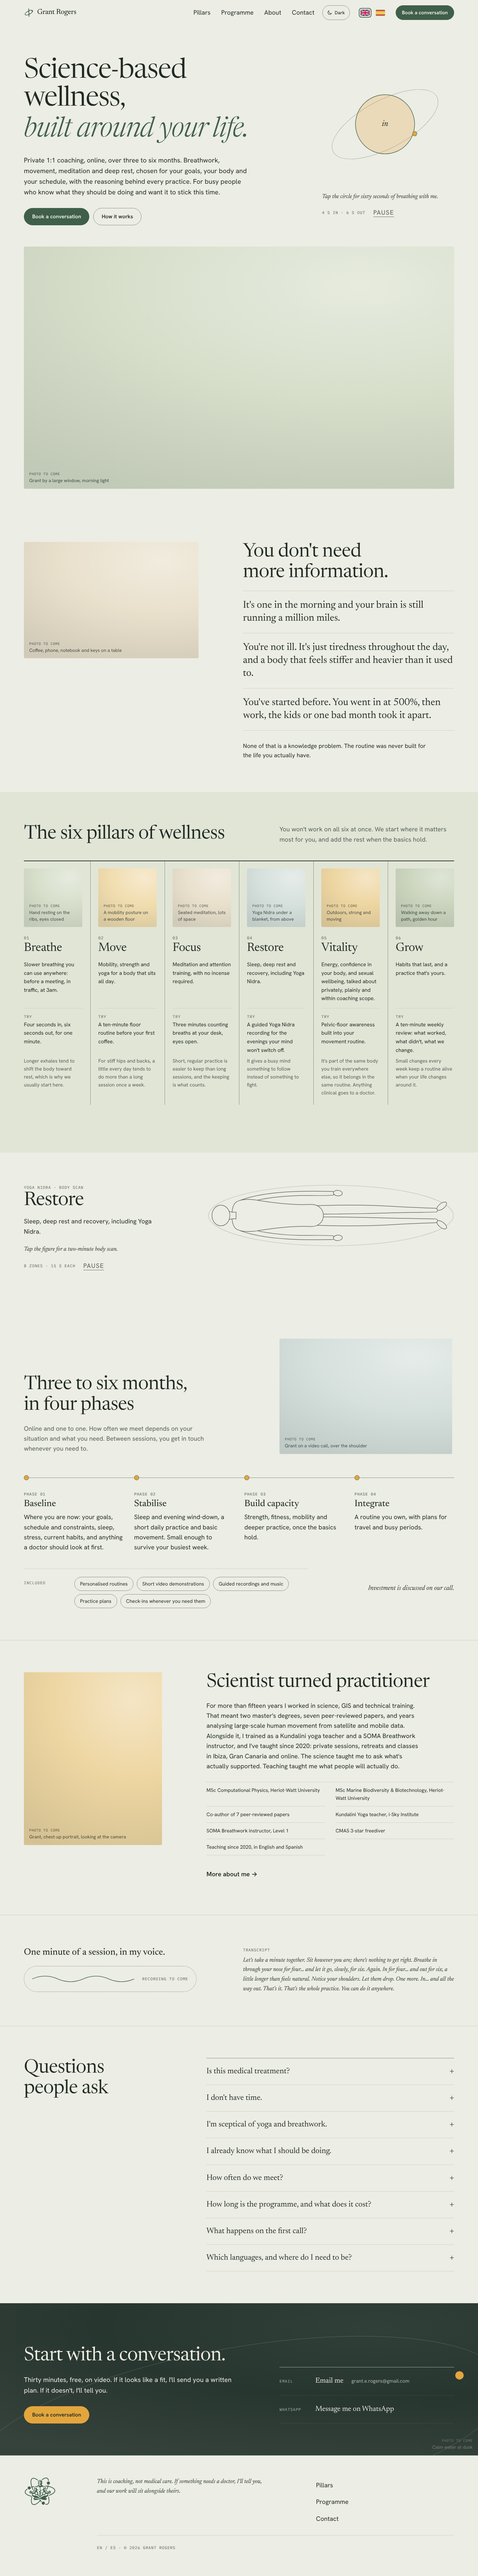
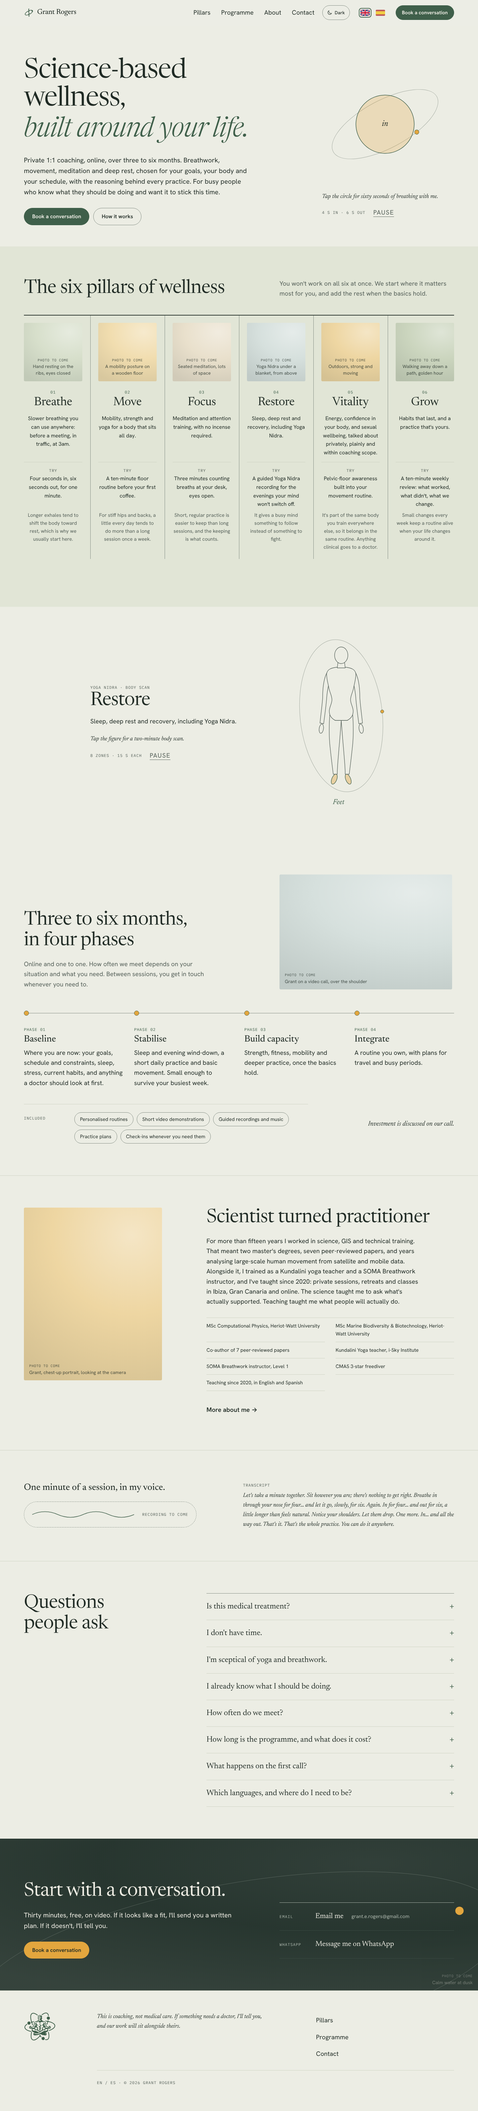
Homepage revisions, round 2 of Grant's review
Removed the 'You don't need more information' section and the large photo
under the hero. Pillar text centred in each column. Switching language now
keeps your place on the page. Body scan redrawn small, like the breath
pacer: an anatomically proportioned figure lying down, seen from above,
inside an orbit with a drifting dot; zones glow warmly with the breath
(5.1, 5.2, 5.4, 12.2, 9.13).

Claude-Session: https://claude.ai/code/session_0174wx8goH1TGMPMSPKuTNat

diff --git a/src/styles/components.css b/src/styles/components.css
@@ -141,6 +141,7 @@
     padding: 0 0 var(--s3); position: relative; }
   .pillar::before { content: ""; position: absolute; left: calc(var(--s6) / -2); top: 0; bottom: 0; width: 1px; background: var(--rule-strong); }
   .pillar:first-child::before, .pillar.row-start::before { display: none; }
+  .pillar { text-align: center; }
   .pillar-media { margin-bottom: var(--s3); }
   .pillar-n { color: var(--accent); margin: 0 0 4px; align-self: end; }
   .pillar-name { font-family: var(--serif); font-weight: 400; font-size: clamp(1.75rem, 1.4rem + 1vw, 2.25rem); line-height: 1.05; margin: 0 0 var(--s2); letter-spacing: -.01em; hyphens: auto; overflow-wrap: anywhere; }
@@ -292,22 +293,28 @@
 }
 
 @layer components {
-  /* Mini Yoga Nidra body scan (9.13): same thin line style as the pacer */
+  /* Mini Yoga Nidra body scan (9.13): small, like the pacer */
+  .scan-wrap { display: grid; gap: var(--s6); justify-items: center; text-align: center; }
   .scan-text .h2 { margin-bottom: var(--s2); }
-  .scan-text p { margin: 0; max-width: 28em; }
+  .scan-text p { margin: 0 auto; max-width: 28em; }
   .scan-hint { margin-top: var(--s3) !important; font-family: var(--serif); font-style: italic; font-size: 1.125rem; }
-  .scan-meta { display: flex; flex-wrap: wrap; align-items: center; gap: 0 var(--s3); color: var(--muted); margin-top: var(--s1) !important; }
-  .scan-figure { margin-top: var(--s6); }
-  .scan-btn { display: block; width: 100%; background: none; border: 0; padding: 0; cursor: pointer; color: var(--ink); border-radius: 12px; }
+  .scan-meta { display: flex; flex-wrap: wrap; align-items: center; justify-content: center; gap: 0 var(--s3); color: var(--muted); margin-top: var(--s1) !important; }
+  .scan-figure { margin: 0; width: min(240px, 62vw); }
+  .scan-btn { display: block; width: 100%; background: none; border: 0; padding: 0; cursor: pointer; color: var(--ink); border-radius: 50%; }
   .scan-btn svg { width: 100%; height: auto; overflow: visible; }
-  .scan-zone-label { margin: var(--s2) 0 0; display: flex; align-items: baseline; gap: var(--s2); min-height: 2.2em; }
-  .scan-zone-label [data-scan-name] { font-family: var(--serif); font-style: italic; font-size: 1.5rem; color: var(--accent); }
+  .scan-zone-label { margin: var(--s2) 0 0; display: flex; justify-content: center; align-items: baseline; gap: var(--s2); min-height: 2.2em; }
+  .scan-zone-label [data-scan-name] { font-family: var(--serif); font-style: italic; font-size: 1.375rem; color: var(--accent); }
   .scan-zone-label [data-scan-count] { color: var(--muted); }
+  .scan-electron { fill: var(--warm); stroke: var(--accent); stroke-width: 1; }
+  @media (min-width: 1024px) {
+    .scan-wrap { grid-template-columns: minmax(0, 1fr) 280px; max-width: 960px; justify-items: start; text-align: left; align-items: center; column-gap: var(--s12); }
+    .scan-text p { margin-left: 0; } .scan-meta { justify-content: flex-start; }
+    .scan-figure { width: 280px; }
+  }
   .bz .shape, .shape { fill: var(--bg); stroke: var(--muted); stroke-width: 1.4; stroke-linejoin: round; transition: fill .9s var(--ease), stroke .9s var(--ease); }
+  /* on/off fades; the breath pulse uses fill-opacity, which isn't transitioned, so the two don't fight */
   .bz .area { fill: var(--warm); opacity: 0; transition: opacity .9s var(--ease); }
-  .bz.on .shape { stroke: var(--accent); fill: color-mix(in srgb, var(--warm) calc(55% + 35% * var(--b, .5)), var(--bg)); }
-  .bz.on .area { opacity: calc(.6 + .35 * var(--b, .5)); }
-  .torso, .neck { fill: var(--bg); }
-  .scan-orbit { fill: none; stroke: var(--rule-strong); stroke-width: 1; opacity: .5; }
-  @media (min-width: 1024px) { .scan-text { grid-column: 1 / 5; align-self: center; } .scan-figure { grid-column: 6 / -1; margin: 0; } }
+  .bz.on .shape { stroke: var(--accent); fill: var(--warm); fill-opacity: calc(.4 + .45 * var(--b, .5)); }
+  .bz.on .area { opacity: 1; fill-opacity: calc(.5 + .45 * var(--b, .5)); }
+  .scan-orbit { fill: none; stroke: var(--rule-strong); stroke-width: 1; opacity: .7; }
 }

diff --git a/src/scripts/site.ts b/src/scripts/site.ts
@@ -47,3 +47,28 @@ if (bar && hero && fin) {
   new IntersectionObserver(([e]) => { pastHero = !e.isIntersecting && e.boundingClientRect.top < 0; upd(); }).observe(hero);
   new IntersectionObserver(([e]) => { atEnd = e.isIntersecting; upd(); }).observe(fin);
 }
+
+// Switching language keeps your place (12.2): remember which section is at the top of the screen and how far into it
+// you are, then restore that position on the other language's page (the text lengths differ, so pixels alone won't do).
+const KEY = 'lang-pos';
+document.querySelectorAll<HTMLAnchorElement>('.flags a, .foot-meta a[hreflang], .foot-meta a[lang]').forEach((a) => {
+  a.addEventListener('click', () => {
+    const secs = [...document.querySelectorAll<HTMLElement>('main > section[id]')]; // same ids in every language
+    const here = secs.filter((s) => s.getBoundingClientRect().top <= 80).pop();
+    const pos = here
+      ? { id: here.id, f: (80 - here.getBoundingClientRect().top) / Math.max(1, here.offsetHeight) }
+      : { id: '', f: scrollY / Math.max(1, document.documentElement.scrollHeight - innerHeight) };
+    try { sessionStorage.setItem(KEY, JSON.stringify(pos)); } catch { /* ignore */ }
+  });
+});
+try {
+  const saved = sessionStorage.getItem(KEY);
+  if (saved) {
+    sessionStorage.removeItem(KEY);
+    const { id, f } = JSON.parse(saved) as { id: string; f: number };
+    const el = id ? document.getElementById(id) : null;
+    const y = el ? el.getBoundingClientRect().top + scrollY + f * el.offsetHeight - 80
+                 : f * (document.documentElement.scrollHeight - innerHeight);
+    window.scrollTo({ top: Math.max(0, y), behavior: 'instant' as ScrollBehavior });
+  }
+} catch { /* ignore */ }

diff --git a/src/scripts/bodyscan.ts b/src/scripts/bodyscan.ts
@@ -6,6 +6,8 @@ document.querySelectorAll<HTMLElement>('[data-scan]').forEach((box) => {
   const section = box.closest('section')!;
   const S = JSON.parse(box.dataset.strings!) as { names: Record<string, string>; count: string; done: string; stopped: string; pause: string; resume: string };
   const svg = box.querySelector('svg')!;
+  const dot = box.querySelector<SVGCircleElement>('[data-scan-electron]')!;
+  const TH = (-6 * Math.PI) / 180, RX = 124, RY = 230, CX = 100, CY = 222;
   const groups = ZONES.map((z) => box.querySelector<SVGGElement>(`[data-zone="${z}"]`)!);
   const name = box.querySelector<HTMLElement>('[data-scan-name]')!;
   const count = box.querySelector<HTMLElement>('[data-scan-count]')!;
@@ -30,6 +32,11 @@ document.querySelectorAll<HTMLElement>('[data-scan]').forEach((box) => {
     if (!paused && visible) {
       const run = now - start;
       svg.style.setProperty('--b', reduce.matches ? '.5' : level(run % CYCLE).toFixed(3));
+      if (!reduce.matches) {
+        const a = (2 * Math.PI * (run % (CYCLE * 2))) / (CYCLE * 2), x = RX * Math.cos(a), y = RY * Math.sin(a);
+        dot.setAttribute('cx', (CX + x * Math.cos(TH) - y * Math.sin(TH)).toFixed(2));
+        dot.setAttribute('cy', (CY + x * Math.sin(TH) + y * Math.cos(TH)).toFixed(2));
+      }
       if (guided) {
         if (run >= GUIDED * ZONES.length) finish(S.done); else show(Math.floor(run / GUIDED));
       } else if (run > 4000 || last >= 0) {

diff --git a/src/lib/copy.ts b/src/lib/copy.ts
@@ -119,11 +119,6 @@ export function loadHome(lang: string) {
       headline: hero['Headline'], subhead: hero['Subhead'], primary: hero['Primary button'],
       secondary: hero['Secondary button'], pacerHint: hero['Pacer hint'],
     },
-    recognition: {
-      heading: S('Recognition').labels['Heading'],
-      items: S('Recognition').items.map((i) => i.text),
-      closing: S('Recognition').labels['Closing line'],
-    },
     pillars: {
       heading: S('Pillars').labels['Heading'],
       intro: S('Pillars').labels['Intro'],

diff --git a/src/content.config.ts b/src/content.config.ts
@@ -15,7 +15,6 @@ const home = defineCollection({
       status: z.enum(['draft', 'approved']).optional(),
       translation_status: z.enum(['draft', 'approved']).optional(),
       hero: z.object({ headline: text, subhead: text, primary: text, secondary: text, pacerHint: text }),
-      recognition: z.object({ heading: text, items: z.array(text).length(3), closing: text }),
       pillars: z.object({
         heading: text,
         intro: text,

diff --git a/knowledge/requirements.md b/knowledge/requirements.md
@@ -69,10 +69,10 @@ Priority: **M** = must have for the preview · **S** = should have for the previ
 
 | ID | Requirement | P |
 |---|---|---|
-| 5.1 | Hero: headline (serif, roman + italic mix) leading with the offer — evidence-based, customised wellness practices, no woo (Grant, 6 Nov 2026); Grant's "scientist turned practitioner" story belongs in About, not the hero; subhead; primary CTA "Book a conversation"; secondary CTA "How it works" (scrolls to 5.5); portrait (16:9 desktop, 4:5 mobile); ambient breath pacer (9.1) | M |
-| 5.2 | Recognition: the problem in three short observations, never laid out as three equal cards or icon columns | M |
+| 5.1 | Hero: headline (serif, roman + italic mix) leading with the offer — evidence-based, customised wellness practices, no woo (Grant, 6 Nov 2026); subhead; primary CTA "Book a conversation"; secondary CTA "How it works" (scrolls to 5.5); ambient breath pacer (9.1). No large photo under the hero (Grant, 6 Nov 2026: "not necessary"); the portrait lives in the About section | M |
+| 5.2 | ~~Recognition section~~ — removed at Grant's request (6 Nov 2026) | M |
 | 5.3 | ~~Approach section~~ — removed at Grant's request (6 Nov 2026). The "evidence, built around you" message lives in the hero, pillars and FAQ | M |
-| 5.4 | Pillars side by side, like columns (Grant, 6 Nov 2026): desktop = one row of columns (wraps to rows of 4 above 6 pillars), each with photo, number, name, description, example practice and its reason, all visible; photos the same size and every row of text (number, name, description, "Try", reason) aligned across the columns (CSS subgrid); under 1024px = a horizontal swipeable row with the next pillar peeking in, keyboard-scrollable. No decorative diagram. Sexual wellbeing only inside its pillar | M |
+| 5.4 | Pillars side by side, like columns, text centred in each column (Grant, 6 Nov 2026): desktop = one row of columns (wraps to rows of 4 above 6 pillars), each with photo, number, name, description, example practice and its reason, all visible; photos the same size and every row of text (number, name, description, "Try", reason) aligned across the columns (CSS subgrid); under 1024px = a horizontal swipeable row with the next pillar peeking in, keyboard-scrollable. No decorative diagram. Sexual wellbeing only inside its pillar | M |
 | 5.5 | Programme: four phases as one simple left-to-right timeline on desktop (line with four numbered points, text under each), a vertical stepper on mobile; nothing pinned; inclusions row; no prices ("investment is discussed on our call") | M |
 | 5.6 | About teaser: portrait, short story, fact list on hairlines (sans, not mono — Grant's "noisy" feedback), link to 4.3 | M |
 | 5.7 | Voice clip (10.x), shown when `voiceClip` flag is on; until Grant's recording exists, a designed audio placeholder ("Recording to come") with the transcript stands in its place | S |
@@ -114,7 +114,7 @@ Priority: **M** = must have for the preview · **S** = should have for the previ
 | 8.1 | Photo slots exactly as listed in `knowledge/photo-slots.md` (IDs P01–P18, fixed file names in `src/assets/photos/`); dropping a file in replaces the placeholder; `.jpg`, `.jpeg`, `.png` and `.webp` all accepted (iPhone HEIC must be exported as JPG first — explained in `CONTENT-EDITING.md`); pillar slots follow pillar IDs in content | M |
 | 8.2 | **Descriptive placeholders**: each empty slot shows a soft, warm tonal panel in the palette with one short line saying what the photo will be (e.g. "Photo to come — Grant by a window, morning light"); the full brief stays in `photo-slots.md` and in the image's alt text. Correct aspect ratio so swapping in the real photo causes no layout change. Never stock, never grey boxes, no grid textures | M |
 | 8.3 | Alt text in both languages from content files | M |
-| 8.4 | Art direction: hero uses different crops for desktop and mobile | M |
+| 8.4 | Art direction: any photo used at different shapes on phone and desktop gets its own crop (the hero photo was removed, so this applies if a wide photo is added back) | M |
 
 ## 9. Motion and signature interactions
 
@@ -132,7 +132,7 @@ Priority: **M** = must have for the preview · **S** = should have for the previ
 | 9.10 | One motion utility controls everything and honours `prefers-reduced-motion` (content appears immediately) | M |
 | 9.11 | Animate only transform and opacity; zero layout shift | M |
 | 9.12 | Subtle link and button micro-interactions (underline draw, fill slide); no custom cursor | S |
-| 9.13 | **Mini Yoga Nidra body scan** (Grant, 6 Nov 2026): a gender-neutral figure lying down, drawn in the same thin line style as the pacer; tap to start a short guided scan (about two minutes) in which each body zone (feet, legs, hips, belly, chest, hands and arms, shoulders, face) gently lights up in turn with a short localised cue; pause/stop; keyboard operable; `aria-live="polite"` cues; under reduced motion only the highlight changes. Shown in its own small section after the pillars, introduced by the Restore pillar's name and description from content. On screen it uses only the zone names and a one-line hint (interface text, listed for review); spoken or longer cues would be new copy for Grant to approve | S |
+| 9.13 | **Mini Yoga Nidra body scan** (Grant, 6 Nov 2026): a small, anatomically proportioned, gender-neutral figure lying down (seen from above, head at the top), drawn in the same thin line style as the pacer and about the same size, inside the same orbit with a drifting dot; tap to start a short guided scan (about two minutes) in which each body zone (feet, legs, hips, belly, chest, hands and arms, shoulders, face) gently lights up in turn with a short localised cue; pause/stop; keyboard operable; `aria-live="polite"` cues; under reduced motion only the highlight changes. Shown in its own small section after the pillars, introduced by the Restore pillar's name and description from content. On screen it uses only the zone names and a one-line hint (interface text, listed for review); spoken or longer cues would be new copy for Grant to approve | S |
 
 ## 10. Voice feature
 
@@ -157,7 +157,7 @@ Priority: **M** = must have for the preview · **S** = should have for the previ
 | ID | Requirement | P |
 |---|---|---|
 | 12.1 | Locales `en` and `es`, routes `/en/…` and `/es/…` | M |
-| 12.2 | Language switcher: a UK flag and a Spanish flag, top right of the header (Grant, 6 Nov 2026), linking to the equivalent page; each flag has an accessible name ("English", "Español"), `lang`/`hreflang`, a 44px tap target, and the current language is marked `aria-current` and visibly ringed | M |
+| 12.2 | Language switcher: a UK flag and a Spanish flag, top right of the header (Grant, 6 Nov 2026), linking to the equivalent page; each flag has an accessible name ("English", "Español"), `lang`/`hreflang`, a 44px tap target, and the current language is marked `aria-current` and visibly ringed. Switching language keeps the visitor at the same place on the page (same section, same relative position), not back at the top | M |
 | 12.3 | `lang` attribute correct per page; date and number formats localised | M |
 | 12.4 | Draft Spanish pages show a small, discreet "Traducción en revisión" note until approved | S |
 | 12.5 | Layouts tested with Spanish text (20–30% longer): no overflow in nav, buttons or hero | M |

diff --git a/REQUIREMENTS-STATUS.md b/REQUIREMENTS-STATUS.md
@@ -2,7 +2,7 @@
 
 Every ID in `knowledge/requirements.md` (121). Status: `todo` / `done` / `partial` / `blocked` / `later`. Updated at the end of every phase (1.6).
 
-Last updated: Phase 3 revisions, 6 November 2026.
+Last updated: Phase 3 revisions (2), 6 November 2026.
 
 | ID | P | Phase | Status | Evidence / notes |
 |---|---|---|---|---|
@@ -45,10 +45,10 @@ Last updated: Phase 3 revisions, 6 November 2026.
 | 4.6 | M | 5 | todo |  |
 | 4.7 | M | 5 | todo |  |
 | 4.8 | M | 2 | done | Root redirect to /en/; Spanish banner removed per Grant — `src/pages/index.astro` |
-| 5.1 | M | 3 | done | Hero: offer-first headline, subhead, 2 CTAs, art-directed photo slot, pacer — review/phase-3 |
-| 5.2 | M | 3 | done | Statements on hairlines beside P13 — review/phase-3 |
+| 5.1 | M | 3 | done | Offer-first hero with pacer; large photo removed per Grant — review/phase-3 |
+| 5.2 | M | 3 | done | Removed at Grant's request (6 Nov 2026) |
 | 5.3 | M | 3 | done | Removed at Grant's request (6 Nov 2026) |
-| 5.4 | M | 3 | done | Equal columns, CSS subgrid aligns every text row; photos identical size (measured 176px / 281px) — review/phase-3 |
+| 5.4 | M | 3 | done | Equal columns, centred text, subgrid-aligned rows, identical photo sizes — review/phase-3 |
 | 5.5 | M | 3 | done | Left-to-right timeline, vertical stepper on mobile, inclusions, price line |
 | 5.6 | M | 3 | done | About teaser with P03, story, facts, link to /about/ |
 | 5.7 | S | 5 | partial | Section with audio placeholder + transcript; real player in Phase 5 |
@@ -75,7 +75,7 @@ Last updated: Phase 3 revisions, 6 November 2026.
 | 8.1 | M | 3 | done | `content/shared/photos.json` (P01–P18), `src/components/Photo.astro` picks up `src/assets/photos/<file>.*` |
 | 8.2 | M | 3 | done | Warm tonal placeholders with one short line, correct ratio — `Photo.astro` |
 | 8.3 | M | 3 | done | Alt text en/es in `photos.json` |
-| 8.4 | M | 3 | done | `HeroPhoto.astro`: 16:9 from 768px, 4:5 on phones, one `<picture>` |
+| 8.4 | M | 3 | done | `HeroPhoto.astro` kept for any wide photo added back; hero photo removed per Grant |
 | 9.1 | M | 4 | partial | Pacer works (4 s / 6 s, ambient, pause); motion polish in Phase 4 |
 | 9.2 | M | 4 | done | Guided minute, count, completion message, pause/stop, keyboard, aria-live — tested |
 | 9.3 | S | 4 | todo |  |
@@ -88,7 +88,7 @@ Last updated: Phase 3 revisions, 6 November 2026.
 | 9.10 | M | 4 | todo |  |
 | 9.11 | M | 4 | todo |  |
 | 9.12 | S | 4 | todo |  |
-| 9.13 | S | 4 | done | `src/components/BodyScan.astro`, `src/scripts/bodyscan.ts`: 8 zones, breath glow, guided 2 min, pause/stop, aria-live, reduced motion |
+| 9.13 | S | 4 | done | Small anatomical figure in an orbit with drifting dot; 8 zones glow with the breath; guided 2 min; pause/stop; aria-live; reduced motion — `BodyScan.astro`, `bodyscan.ts` |
 | 10.1 | S | 5 | todo |  |
 | 10.2 | S | 5 | todo |  |
 | 10.3 | S | 5 | todo |  |
@@ -98,7 +98,7 @@ Last updated: Phase 3 revisions, 6 November 2026.
 | 11.4 | S | 5 | todo |  |
 | 11.5 | M | 5 | todo |  |
 | 12.1 | M | 1 | done | `/en/` and `/es/` routes — `src/pages/[lang]/` |
-| 12.2 | M | 2 | done | UK / Spain flags with accessible names, 44px targets, aria-current ring — `Header.astro`, `src/lib/brand.ts` |
+| 12.2 | M | 2 | done | Flags; switching keeps the same section and relative position (tested: 0.28→0.28, 0.58→0.58) — `src/scripts/site.ts` |
 | 12.3 | M | 2 | done | `lang` en-GB / es-ES per page — `Base.astro` |
 | 12.4 | S | 3 | done | "Traducción en revisión" note on draft Spanish pages — `Base.astro` |
 | 12.5 | M | 3 | done | No overflow at 360–1440px in Spanish — review/phase-3/REVIEW.md |

diff --git a/knowledge/photo-slots.md b/knowledge/photo-slots.md
@@ -28,6 +28,7 @@ General direction (all slots): natural light, real places, slightly warm colour 
 | P18 | `texture-stone.jpg` | Programme or Approach background detail | No people | Macro, **square 1:1** | Stone, sand or bark | Grounded, natural |
 
 Notes
+- Not used on the current homepage (Grant, 6 Nov 2026): P01/P02 (hero photo removed) and P13 (Recognition section removed). The slots stay, so a photo can be added back later.
 - Pillar slots follow the pillar IDs in content. If a pillar is renamed, added or removed, its slot is renamed, added or removed with it, and the brief is updated here.
 - Minimum set before sharing the preview: P01/P02, P03, one of P07–P12, P06, one of P16–P18.
 - Textures (P16–P18) may be AI-generated or from a free library; photos of Grant must be real (see `design-system.md`).

diff --git a/content/en/home.md b/content/en/home.md
@@ -23,21 +23,6 @@ When you're happy, change "status: draft" to "status: approved" at the top.
 
 **Pacer hint:** Tap the circle for sixty seconds of breathing with me.
 
-## Recognition
-
-**Heading:** You don't need more information.
-
-### 1
-It's one in the morning and your brain is still running a million miles.
-
-### 2
-You're not ill. It's just tiredness throughout the day, and a body that feels stiffer and heavier than it used to.
-
-### 3
-You've started before. You went in at 500%, then work, the kids or one bad month took it apart.
-
-**Closing line:** None of that is a knowledge problem. The routine was never built for the life you actually have.
-
 ## Pillars
 
 **Heading:** The six pillars of wellness

diff --git a/content/es/home.md b/content/es/home.md
@@ -23,21 +23,6 @@ labels and the **ID:** lines (they link each pillar to its photo).
 
 **Pacer hint:** Toca el círculo y respira conmigo durante sesenta segundos.
 
-## Recognition
-
-**Heading:** No te falta información.
-
-### 1
-Es la una de la madrugada y tu cabeza sigue a mil por hora.
-
-### 2
-No tienes nada grave. Es ese cansancio que dura todo el día, y un cuerpo más rígido y pesado que antes.
-
-### 3
-Ya lo has intentado. Empezaste al 500 % y luego el trabajo, los niños o un mal mes lo echaron todo abajo.
-
-**Closing line:** Nada de eso es falta de conocimiento. La rutina nunca se pensó para la vida que tienes de verdad.
-
 ## Pillars
 
 **Heading:** Los seis pilares del bienestar

diff --git a/design/CHOSEN.md b/design/CHOSEN.md
@@ -15,3 +15,4 @@
 - No "Ver en español" banner; the header shows a UK flag and a Spanish flag instead of "EN / ES".
 - Pillars heading: "The six pillars of wellness"; everything in the pillar columns lines up across columns.
 - Mini Yoga Nidra body scan added after the pillars (requirement 9.13), in the pacer's line style.
+- Second review: Recognition section and the large hero photo removed; pillar text centred; body scan made small and anatomical, like the pacer; switching language keeps your place on the page.
